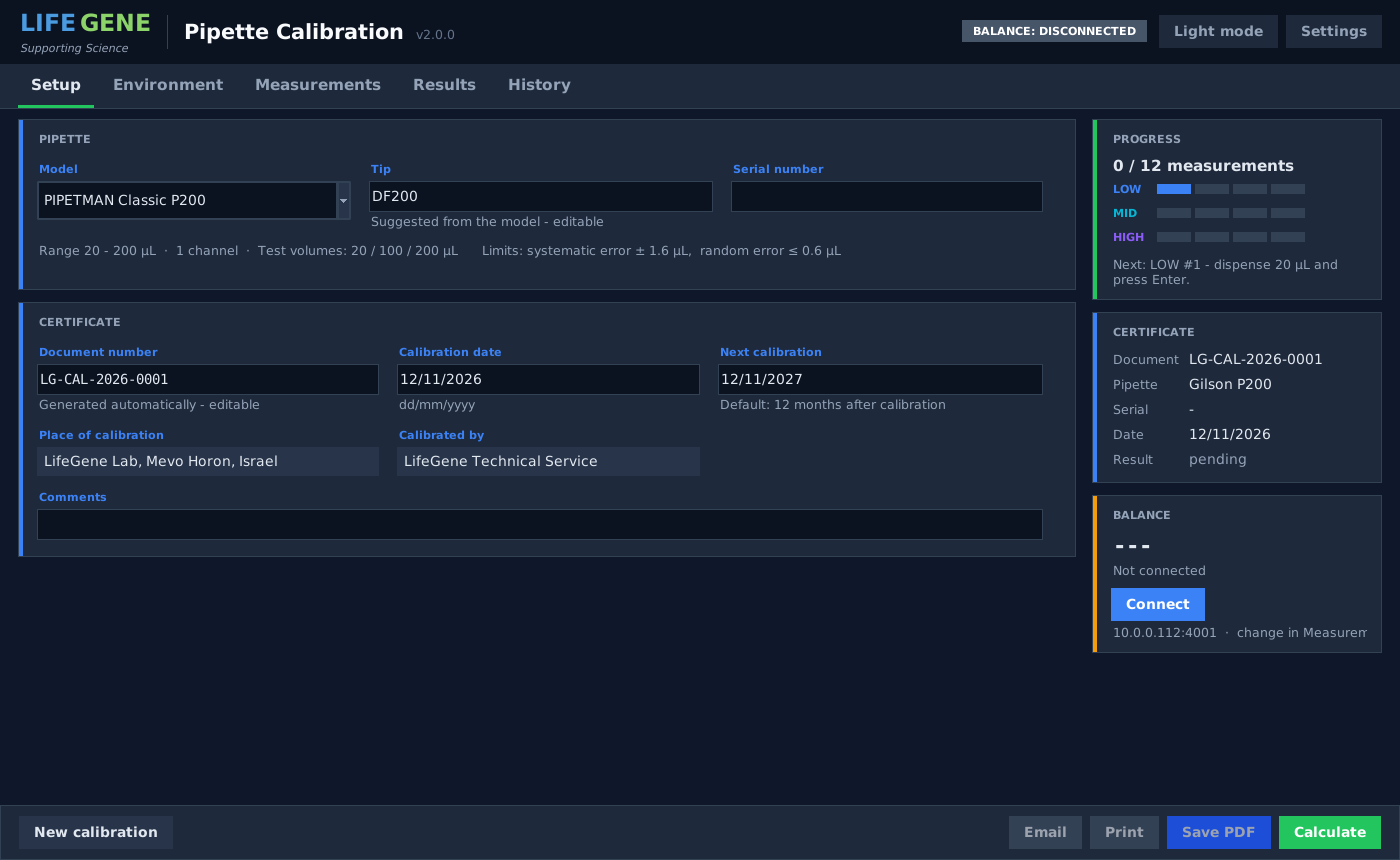
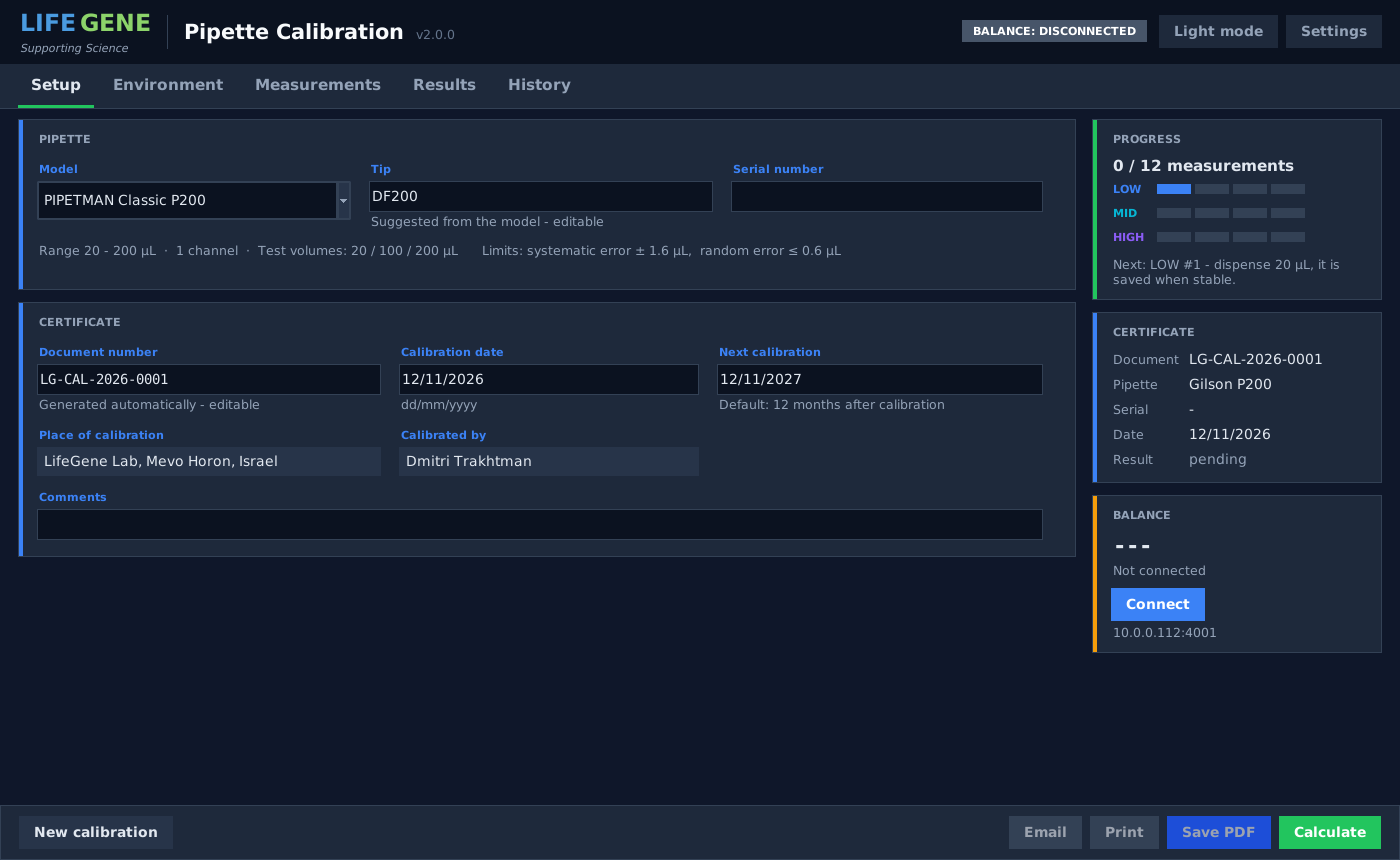
'Calibrated by' shows the operator's name; migrate the old default in saved settings
Claude-Session: https://claude.ai/code/session_01DKbKsLg9aKj7DGaBzZdUqk

diff --git a/pipette-calibration/pipette_cal/storage.py b/pipette-calibration/pipette_cal/storage.py
@@ -45,7 +45,7 @@ class AppConfig:
     poll_interval_s: float = 0.25
     balance_id: str = ""
     balance_readability_mg: float = 0.001
-    operator: str = "LifeGene Technical Service"
+    operator: str = "Dmitri Trakhtman"     # "Calibrated by" on the certificate
     signer_name: str = "Dmitri Trakhtman"   # person who signs the certificate (printed next to the signature)
     theme: str = "dark"
     default_temperature_c: float = 22.0
@@ -79,6 +79,8 @@ class AppConfig:
         for key, value in data.items():
             if key in known:
                 setattr(cfg, key, value)
+        if cfg.operator.strip() in ("", "LifeGene Technical Service"):
+            cfg.operator = cls.operator          # settings saved by an earlier version
         return cfg
 
     def save(self) -> None:

diff --git a/pipette-calibration/tests/test_certificate_and_storage.py b/pipette-calibration/tests/test_certificate_and_storage.py
@@ -59,11 +59,13 @@ def test_config_roundtrip(tmp_path, monkeypatch):
     monkeypatch.setattr("pipette_cal.storage.app_data_dir", lambda: tmp_path)
     cfg = AppConfig.load()
     assert cfg.scale_ip == "10.0.0.112"
-    assert cfg.operator == "LifeGene Technical Service"
+    assert cfg.operator == "Dmitri Trakhtman"
     cfg.scale_ip = "192.168.1.5"
     cfg.operator = "Dmitri"
     cfg.save()
     again = AppConfig.load()
     assert again.scale_ip == "192.168.1.5" and again.operator == "Dmitri"
+    (tmp_path / "config.json").write_text('{"operator": "LifeGene Technical Service"}')
+    assert AppConfig.load().operator == "Dmitri Trakhtman"      # old default is migrated
     (tmp_path / "config.json").write_text("{not json")
     assert AppConfig.load().scale_ip == "10.0.0.112"

diff --git a/pipette-calibration/pipette_cal/app.py b/pipette-calibration/pipette_cal/app.py
@@ -41,7 +41,7 @@ from .storage import AppConfig, CalibrationRecord, History, now_iso
 log = logging.getLogger(__name__)
 
 TABS = ("Setup", "Environment", "Measurements", "Results", "History")
-DEFAULT_OPERATOR = "LifeGene Technical Service"
+DEFAULT_OPERATOR = "Dmitri Trakhtman"
 
 # Automatic capture: a drop is saved when the balance reports a stable reading
 # that has not moved for AUTO_STABLE_READINGS consecutive readings spanning at

diff --git a/pipette-calibration/pipette_cal/certificate.py b/pipette-calibration/pipette_cal/certificate.py
@@ -105,7 +105,7 @@ class CertificateInfo:
     next_calibration_date: date
     serial_no: str
     tip: str
-    operator: str = "LifeGene Technical Service"
+    operator: str = "Dmitri Trakhtman"
     balance_id: str = ""
     place: str = "LifeGene Lab, Mevo Horon, Israel"
     comments: str = ""

diff --git a/pipette-calibration/README.md b/pipette-calibration/README.md
@@ -29,7 +29,7 @@ a small, tested application:
   numbers are generated automatically (`LG-CAL-2026-0001`, ...), a certificate
   can be re-created from history at any time, and the Setup tab warns when a
   serial number was calibrated before.
-* **Settings dialog** - operator name (default "LifeGene Technical Service"),
+* **Settings dialog** - operator name (printed as "Calibrated by"),
   e-mail recipient, standard / procedure line, balance readability, default
   environment, PDF folder, next-calibration interval. Stored per user in
   `%APPDATA%\LifeGene\PipetteCalibration`.
